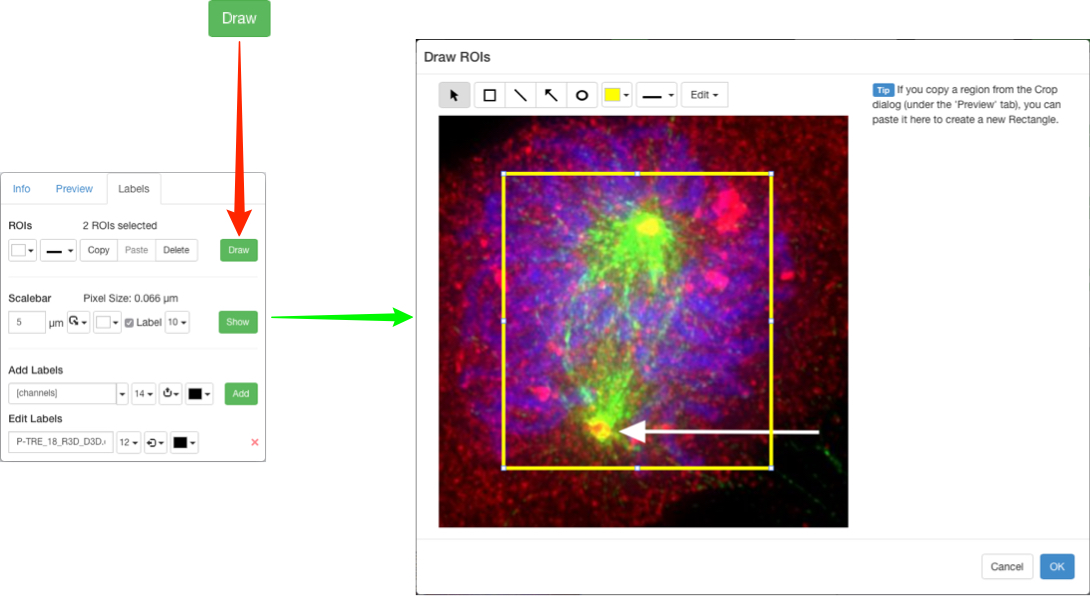
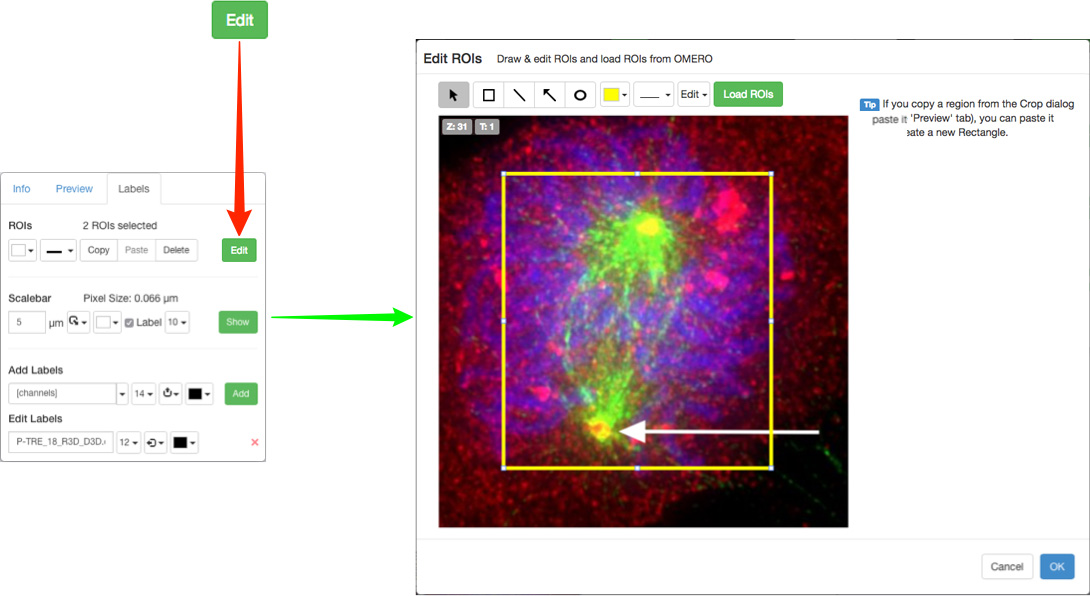
Adding 'ROIs from OMERO' to figure.html

diff --git a/figure.html b/figure.html
@@ -451,6 +451,35 @@ click <span class="bold">Edit</span> to add and edit ROI shapes on the selected 
 
 </li>
 
+
+<li>
+
+    <p class="first">
+        To load ROIs saved on the image in OMERO, click the <span class="bold">Load ROIs</span> button.
+    </p>
+
+    <p>
+        Shapes will be loaded and displayed. Mousing over a shape will show it's location on the image.
+        Clicking the <span class="bold">Add</span> button will add the shape to the image. It can then
+        be edited as described above.
+    </p>
+
+    <p>
+        For multi-plane images, the panel will update to show the Z and T index of the newly-added shape.
+        If this is not desired, you can click the <span class="bold">Revert to Z/T</span> buttons that
+        will appear at the top-left of the image.
+    </p>
+
+    <div class="line-block"></div>
+
+    <img alt="../images/figureROI.jpg" class="align-center" src="images/figureROIfromOmero.jpg" style="width: 100%;" />
+
+    <div class="line-block">
+    	<div class="line"><br /></div> <!-- end #line -->
+    </div> <!-- end #line-block -->
+
+</li>
+
 <li>
 
 <p class="first">ROI shapes can be edited or moved after adding, and copied and pasted using the <span class="bold">Edit</span> menu or keyboard shortcuts.</p>
